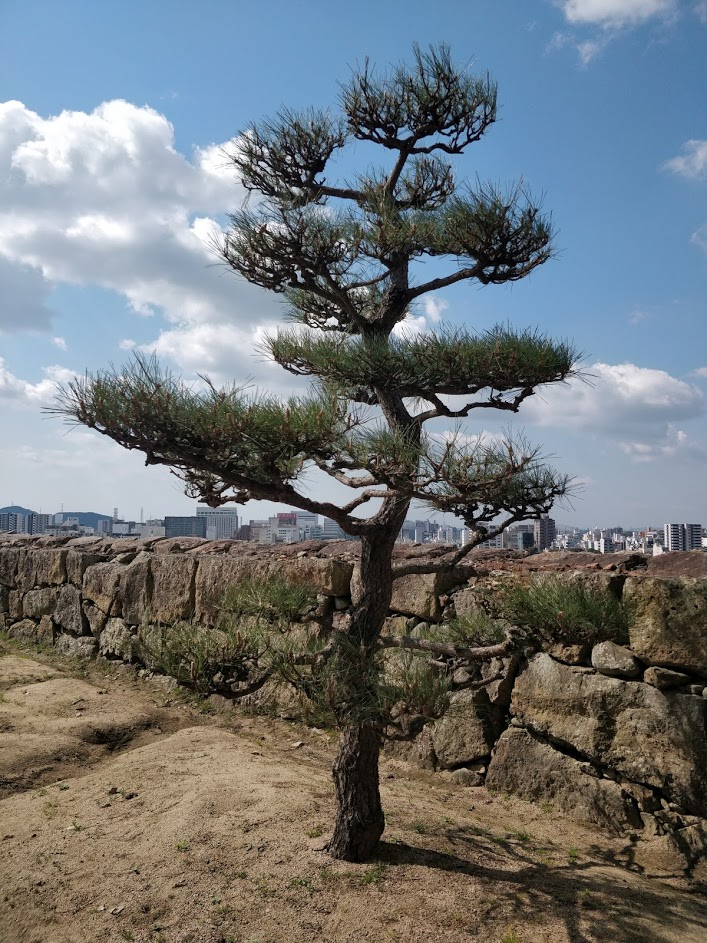
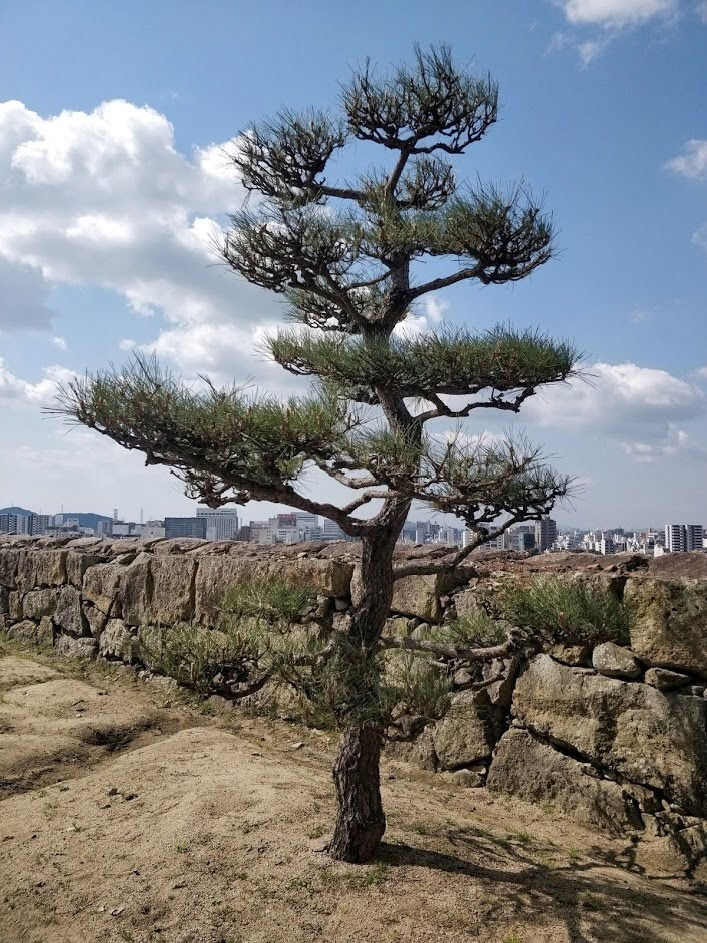
feat: some changes to himeji

Changed region(s): [[0.0, 0.0308, 1.0, 1.0], [0.1556, 0.4305, 0.1867, 0.4613]]

diff --git a/src/pages/asia/japan/himeji-castle.tsx b/src/pages/asia/japan/himeji-castle.tsx
@@ -24,7 +24,6 @@ import { HimejiCastle1Image } from "../../../components/images/asia/japan/himeji
 import { HimejiCastleWithCherryImage } from "../../../components/images/asia/japan/himeji/castle/himejiCastleWithCherryImage"
 import { HimejiCastleWithCherry2Image } from "../../../components/images/asia/japan/himeji/castle/himejiCastleWithCherry2Image"
 import { HimejiCastleGeishaImage } from "../../../components/images/asia/japan/himeji/castle/himejiCastleGeishaImage"
-import { HimejiCastleWithCherry3Image } from "../../../components/images/asia/japan/himeji/castle/himejiCastleWithCherry3Image"
 import { HimejiCastleWithCherry6Image } from "../../../components/images/asia/japan/himeji/castle/himejiCastleWithCherry6Image"
 import { HimejiCastleWithCherry5Image } from "../../../components/images/asia/japan/himeji/castle/himejiCastleWithCherry5Image"
 import { Conclusion } from "../../../components/core/conclusion"
@@ -44,6 +43,7 @@ import { HimejiCastleWithTreeImage } from "../../../components/images/asia/japan
 import { HimejiCastle3Image } from "../../../components/images/asia/japan/himeji/castle/himejiCastle3Image"
 import { HimejiCastleWithCherry4Image } from "../../../components/images/asia/japan/himeji/castle/himejiCastleWithCherry4Image"
 import { HimejiCastle2Image } from "../../../components/images/asia/japan/himeji/castle/himejiCastle2Image"
+import { HimejiCastle4Image } from "../../../components/images/asia/japan/himeji/castle/himejiCastle4Image"
 
 const IndexPage = () => {
   return (
@@ -182,8 +182,8 @@ const Content = () => {
             poser les yeux.
           </p>
           <TwoImagesSameSize>
-            <HimejiCastleWithCherry3Image />
-            <HimejiCastleWithCherry2Image />
+            <HimejiCastle4Image />
+            <HimejiCastleWithCherry4Image />
           </TwoImagesSameSize>
           <p>
             Nous avons le choix de visiter l’intérieur ou de continuer vers l’extérieur, les deux se valent. Le château

diff --git a/src/components/images/asia/japan/himeji/castle/himejiCastle4Image.tsx b/src/components/images/asia/japan/himeji/castle/himejiCastle4Image.tsx
@@ -1,0 +1,18 @@
+import { useStaticQuery, graphql } from "gatsby"
+import Img from "gatsby-image"
+import * as React from "react"
+
+export const HimejiCastle4Image = ({ className = "" }: { className?: string }) => {
+  const data = useStaticQuery(graphql`
+    query {
+      file: file(relativePath: { eq: "asia/japan/himeji/castle/himeji-castle-4.jpg" }) {
+        childImageSharp {
+          fluid(maxWidth: 1200) {
+            ...GatsbyImageSharpFluid
+          }
+        }
+      }
+    }
+  `)
+  return <Img fluid={data.file.childImageSharp.fluid} alt="Himeji castle" className={className} />
+}
